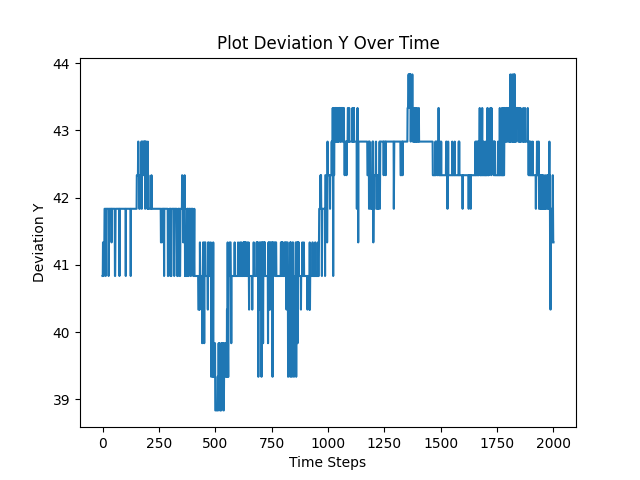
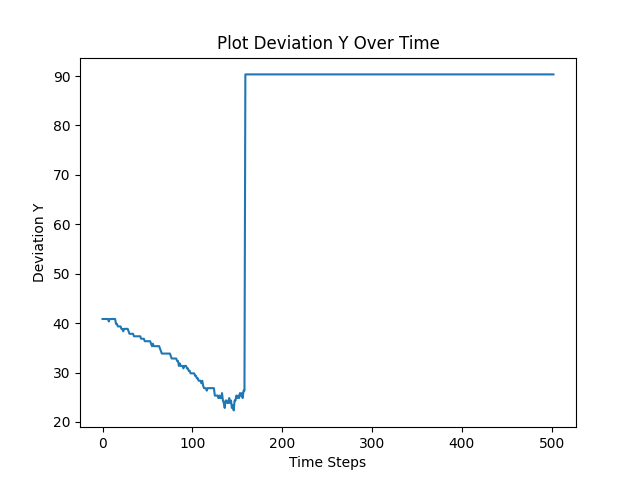
feat: re-test for yolo pengujian 1

diff --git a/controllers/main/YOLO_VisuoExcaRobo.py b/controllers/main/YOLO_VisuoExcaRobo.py
@@ -19,8 +19,8 @@ except ImportError:
 
 # Constants used in the environment
 ENV_ID = "YOLO_VisuoExcaRobo"
-OBS_SPACE_SCHEMA = 1  # 1: coordinates of the target, 2: pure image
-REWARD_SCHEMA = 2  # 1: reward function based on pixel position, 2: reward function based on distance
+OBS_SPACE_SCHEMA = 2  # 1: coordinates of the target, 2: pure image
+REWARD_SCHEMA = 1  # 1: reward function based on pixel position, 2: reward function based on distance
 MAX_EPISODE_STEPS = 2000
 MAX_WHEEL_SPEED = 5.0
 MAX_MOTOR_SPEED = 0.7
